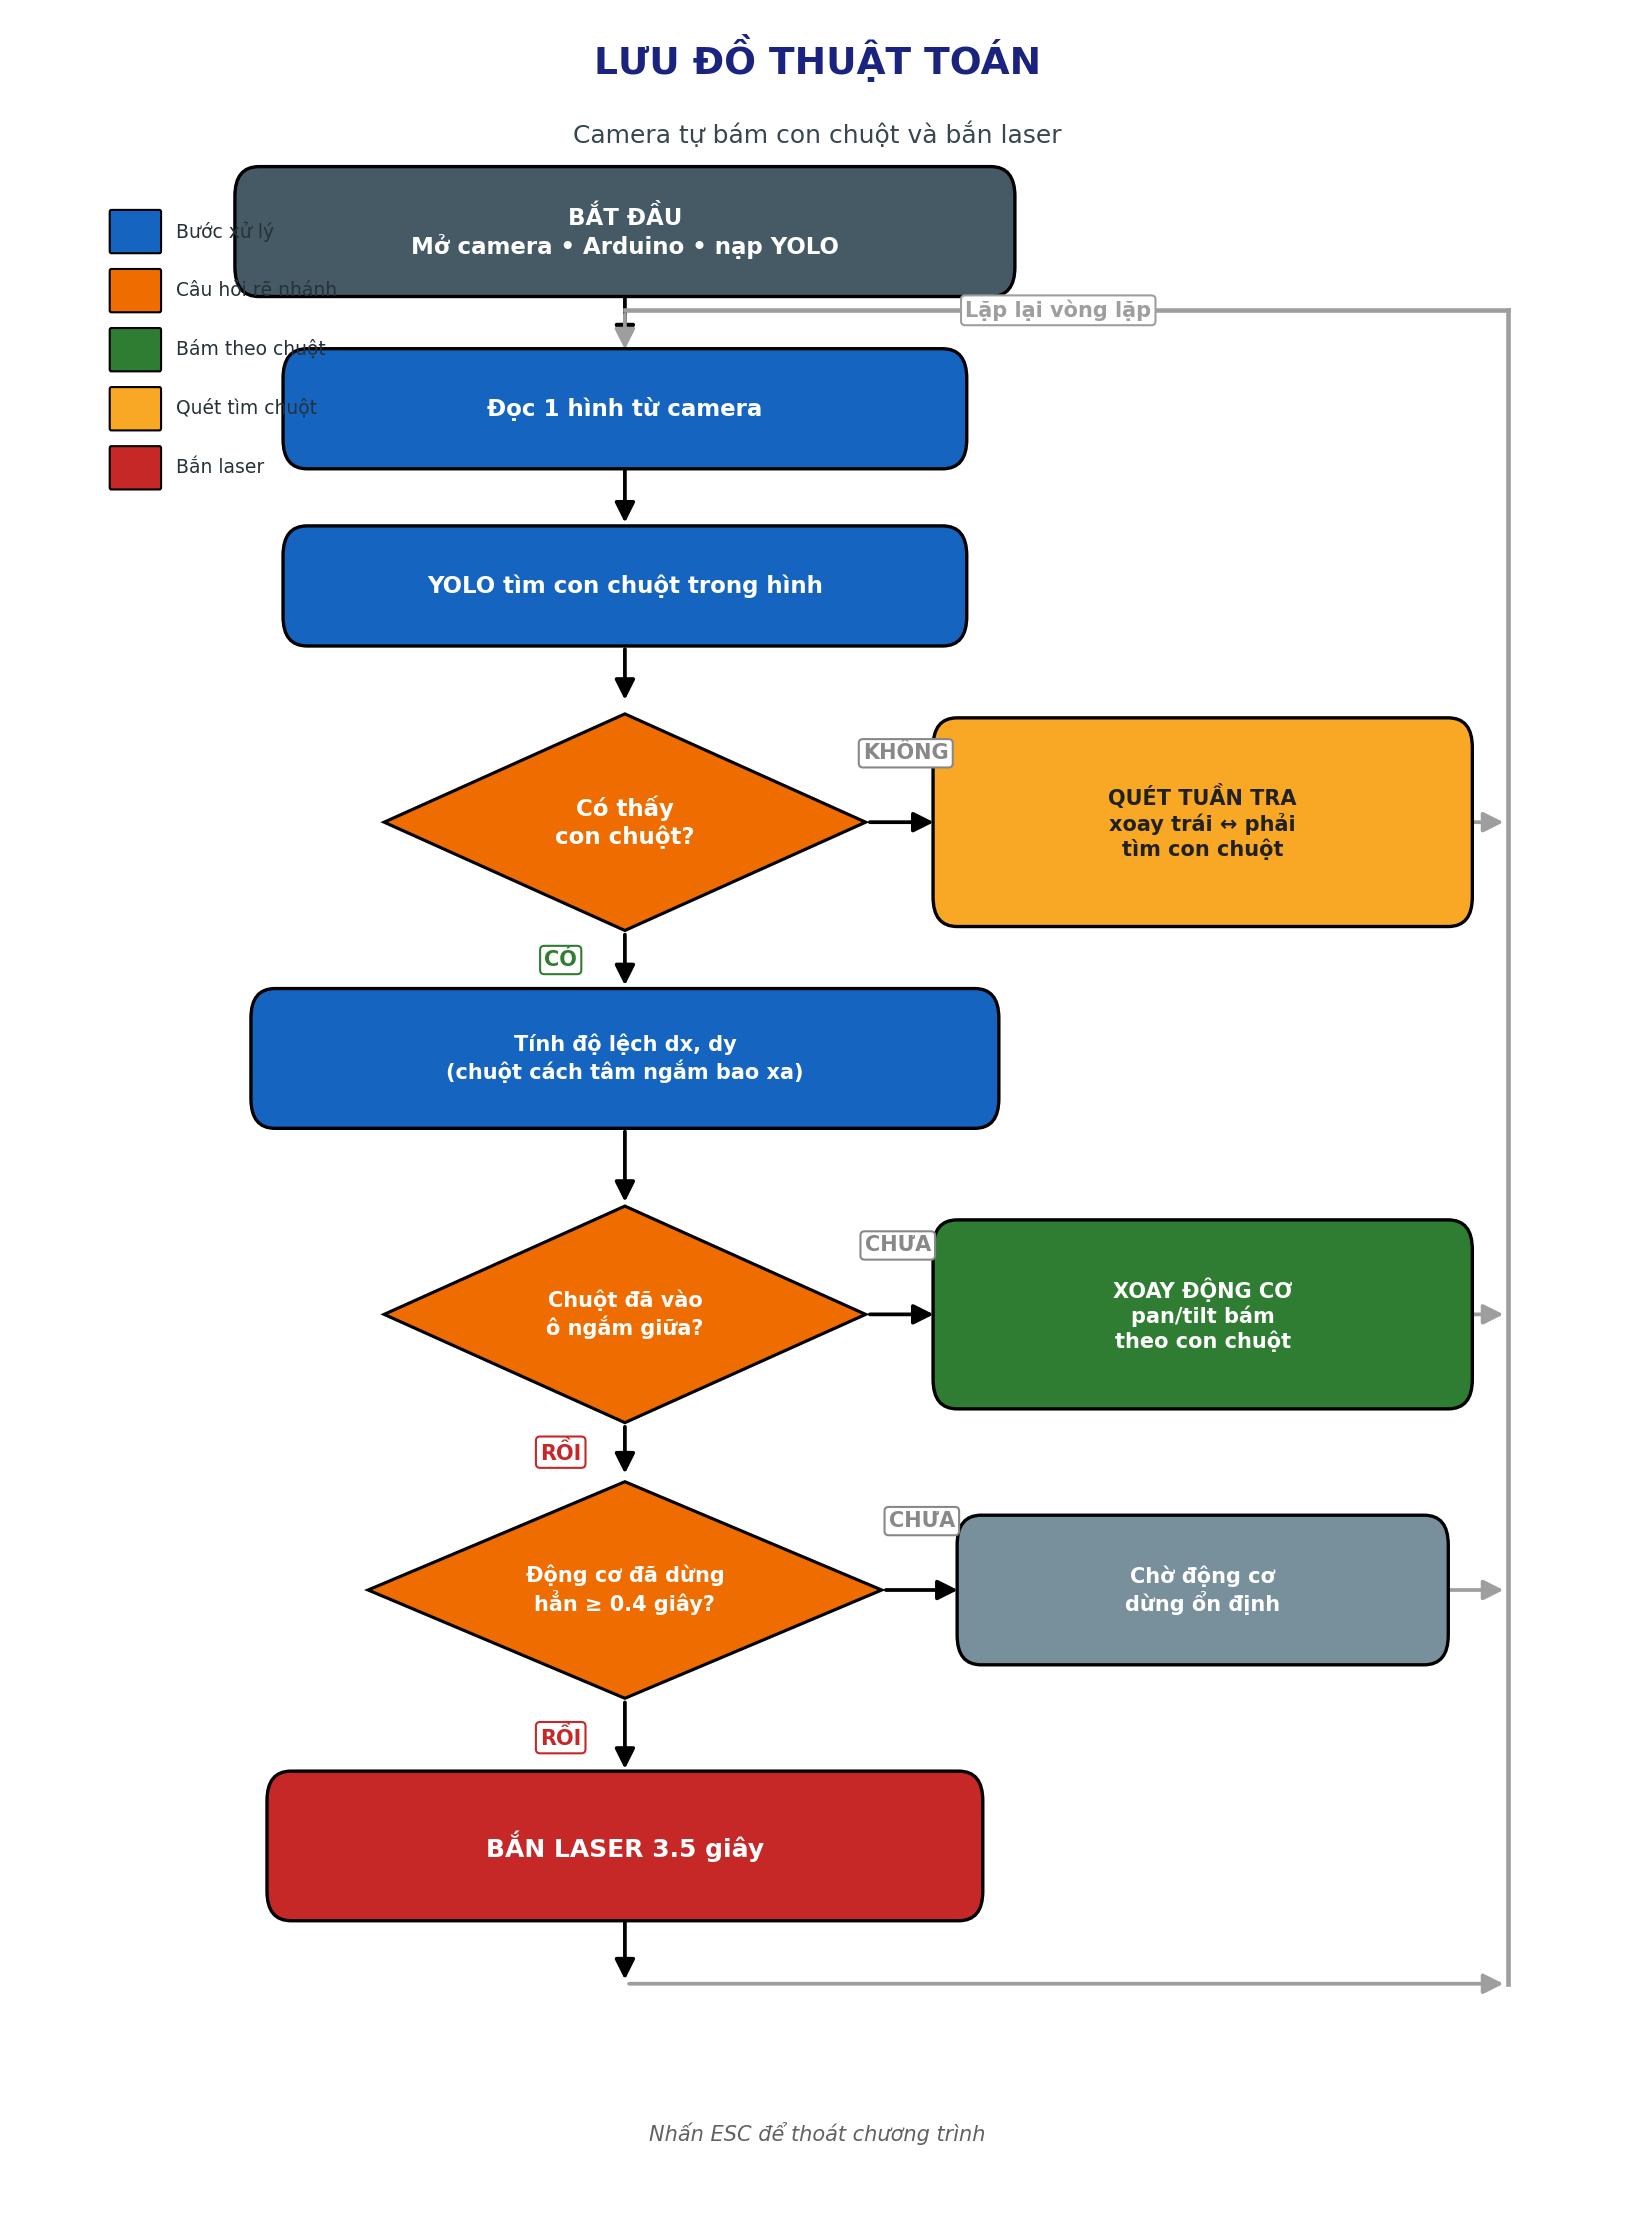
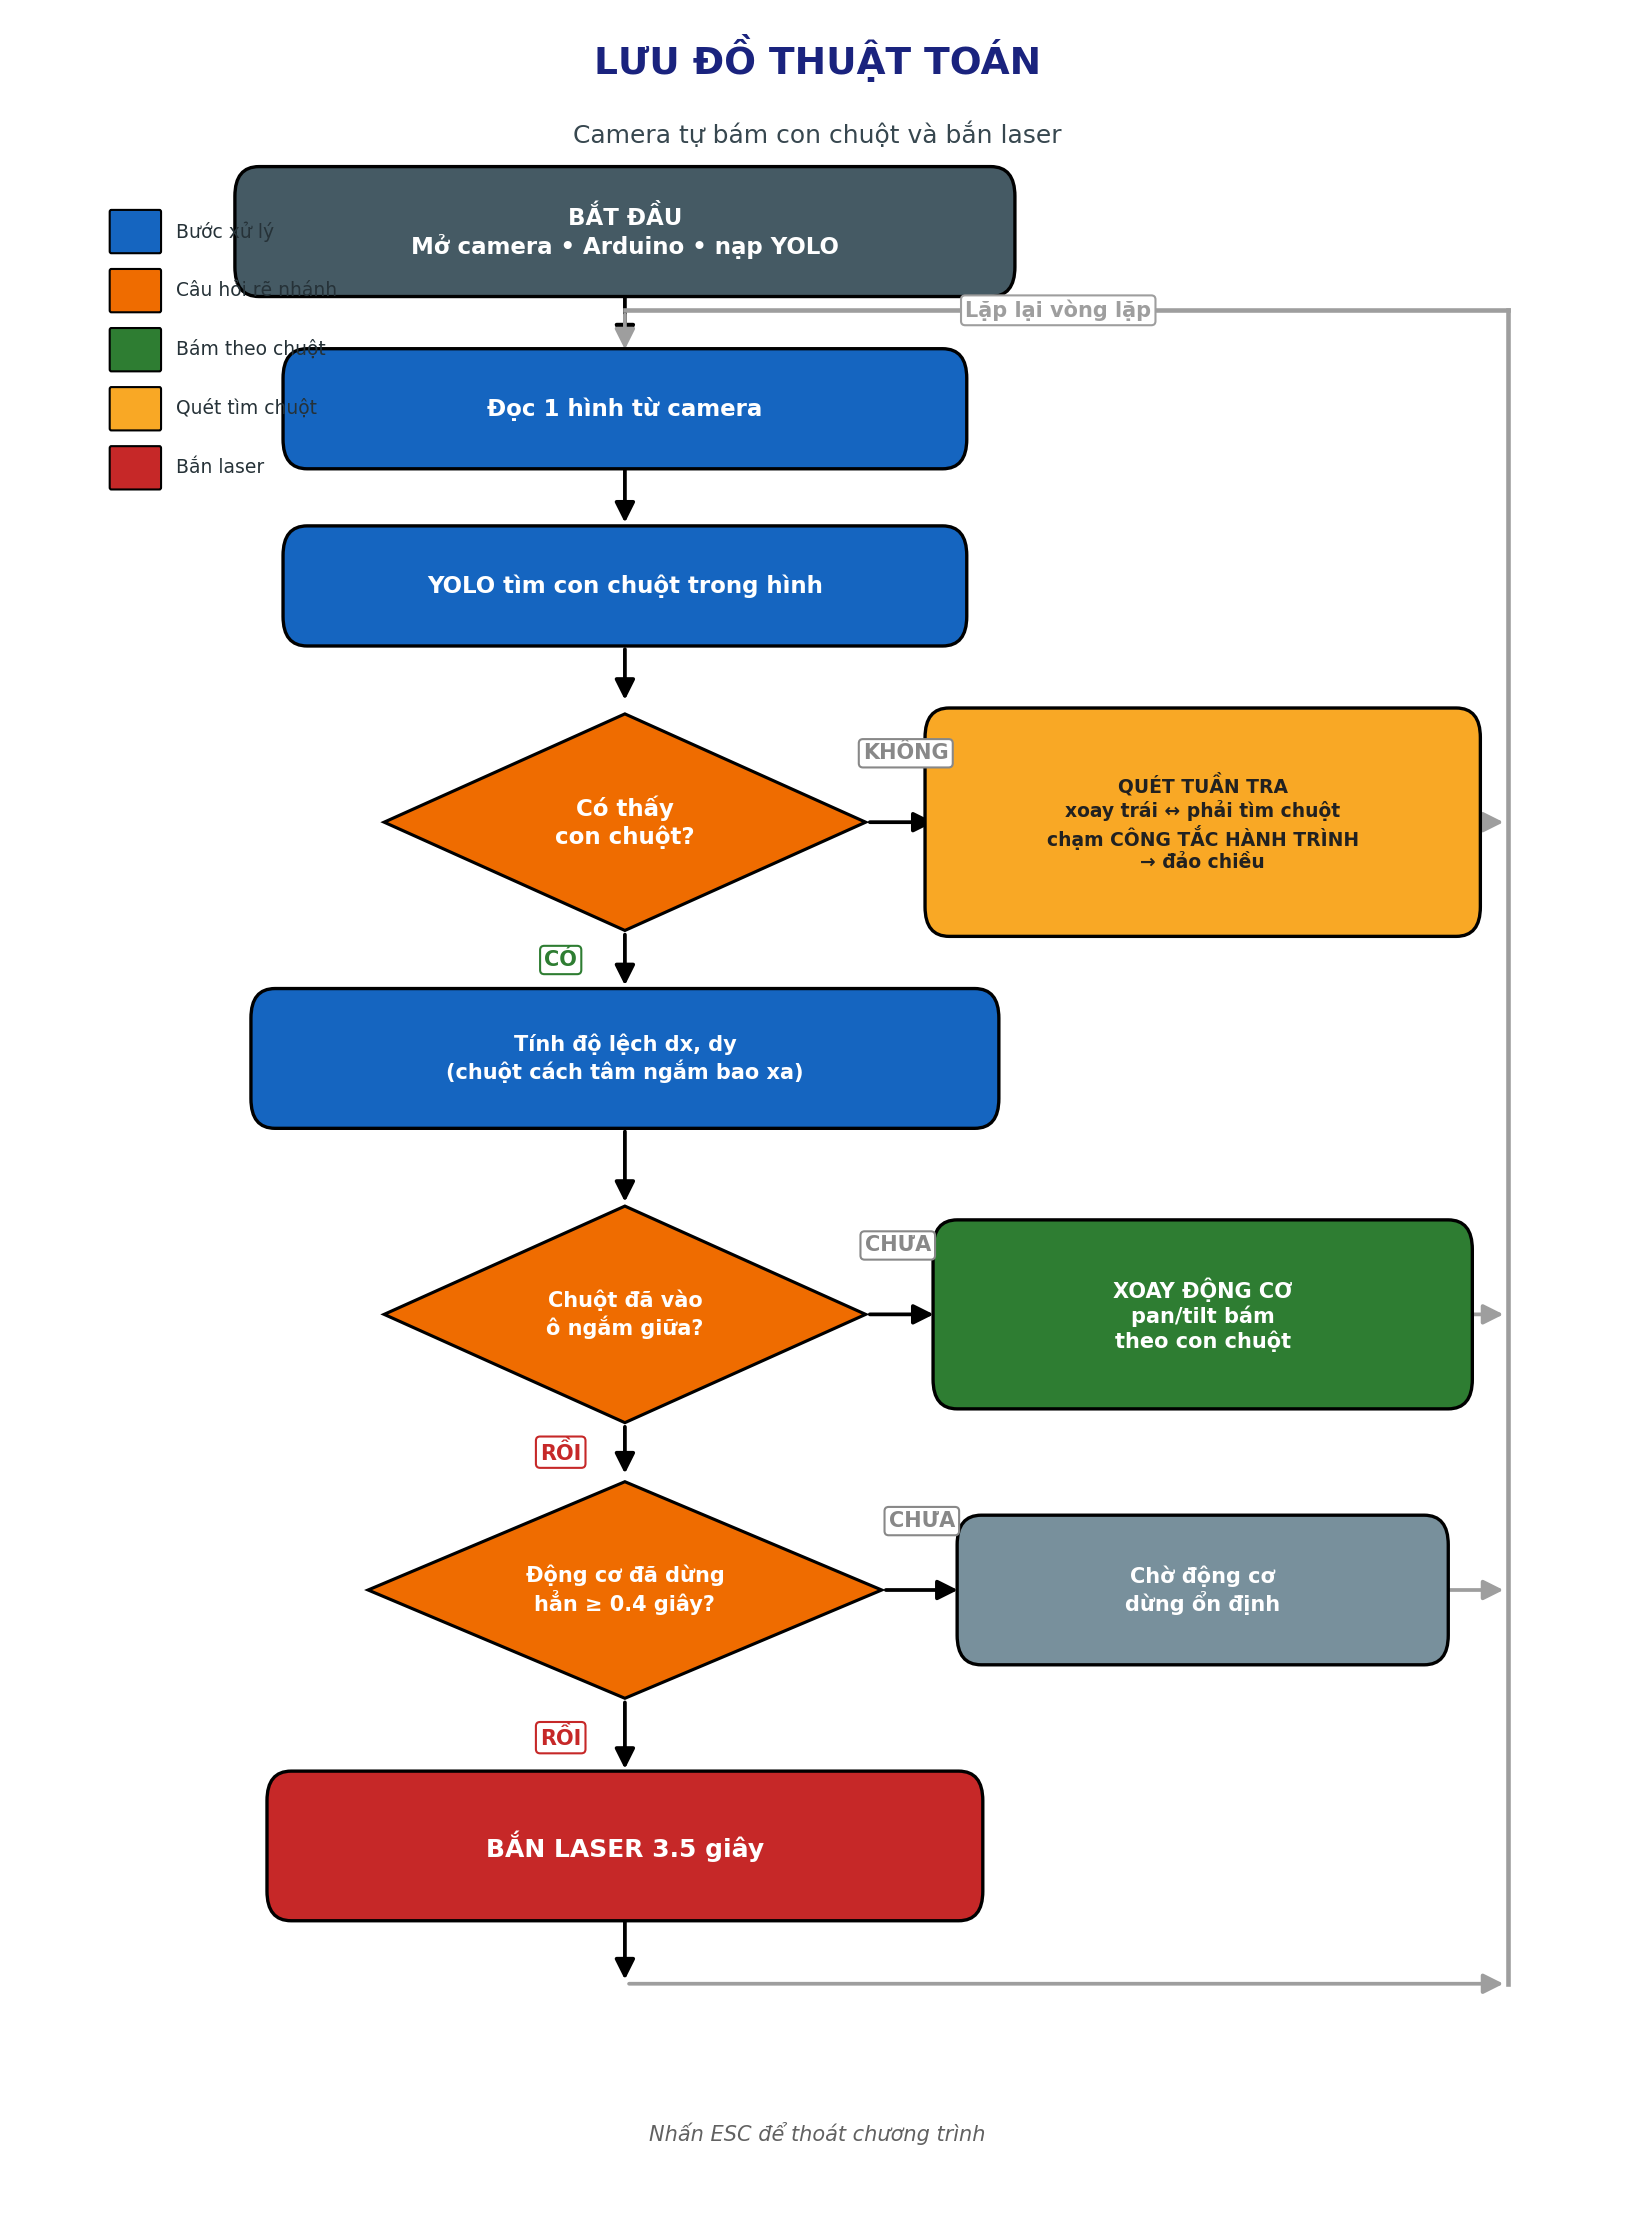
Luu do: cap nhat tuan tra dung CONG TAC HANH TRINH (cham -> dao chieu)

Changed region(s): [[0.5615, 0.3087, 0.9046, 0.4322]]

diff --git a/generate_flowchart.py b/generate_flowchart.py
@@ -70,7 +70,7 @@ box(38, 120, 32, 11, "Động cơ đã dừng\nhẳn ≥ 0.4 giây?", C_DEC, 10,
 box(38, 107, 44, 7, "BẮN LASER 3.5 giây", C_FIRE, 12)
 
 # ===== NHANH BEN PHAI (x = 74) =====
-box(74, 159, 33, 10, "QUÉT TUẦN TRA\nxoay trái ↔ phải\ntìm con chuột", C_SCAN, 10, tc="#212121")
+box(74, 159, 34, 11, "QUÉT TUẦN TRA\nxoay trái ↔ phải tìm chuột\nchạm CÔNG TẮC HÀNH TRÌNH\n→ đảo chiều", C_SCAN, 9, tc="#212121")
 box(74, 134, 33, 9, "XOAY ĐỘNG CƠ\npan/tilt bám\ntheo con chuột", C_TRACK, 10)
 box(74, 120, 30, 7, "Chờ động cơ\ndừng ổn định", C_WAIT, 10)
 
